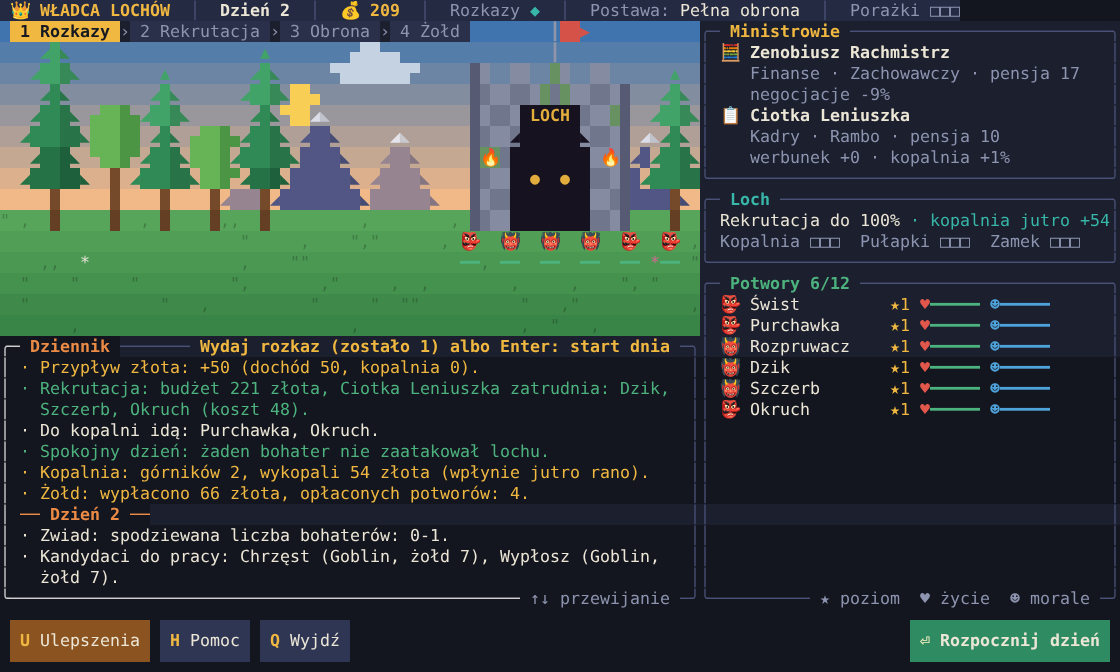
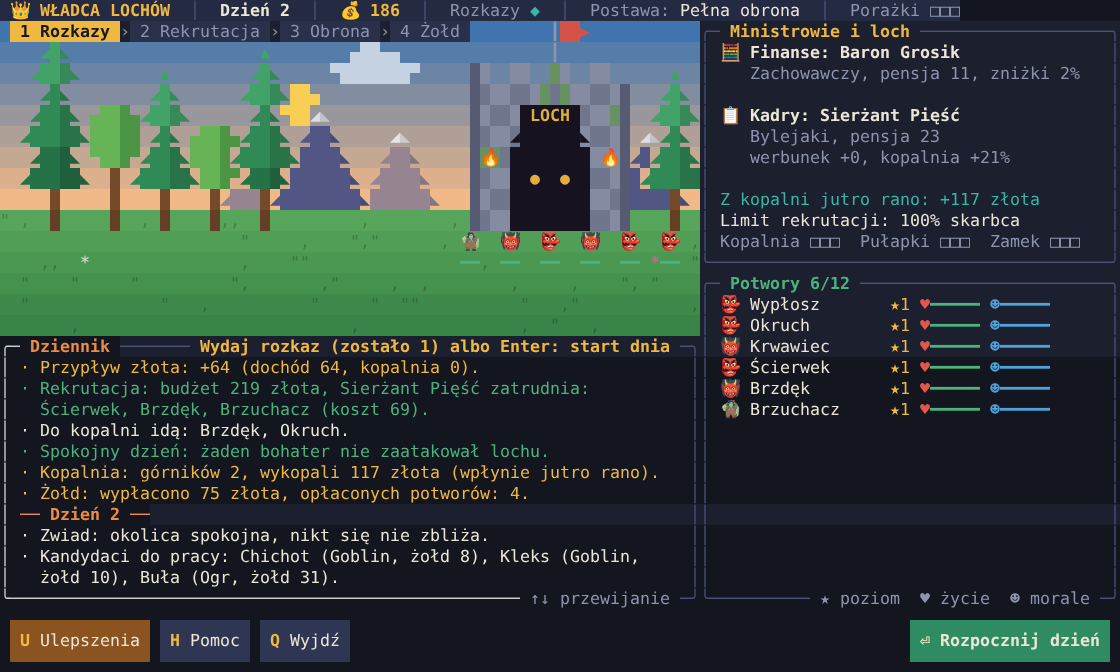
docs: opis testu układu i aktualne zrzuty ekranu

diff --git a/README.md b/README.md
@@ -104,3 +104,8 @@ mvn test
 
 Testy sprawdzają zasady istot i ministrów, przebieg walki, fazy dnia, zapis gry oraz symulują
 kilkadziesiąt pełnych rozgrywek z losowymi rozkazami.
+
+Osobny test układu ekranu (`UkladEkranuTest`) przeklikuje całą grę automatem na trzech rozmiarach
+okna i w skrajnym scenariuszu (pełny loch, najdłuższe imiona, atak dwunastu bohaterów). Po każdym
+kroku sprawdza, że żaden tekst nie został przycięty, nic nie wyszło poza ekran i żadne przyciski
+na siebie nie nachodzą.
